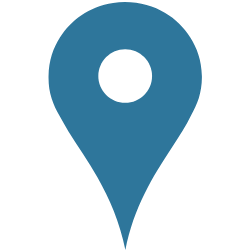
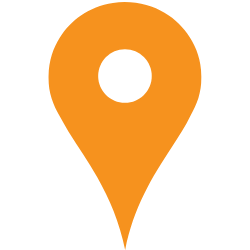
デモ用に改修

diff --git a/script/main.js b/script/main.js
@@ -4,16 +4,17 @@ soundEffects[0] = new Audio('audio/rain01.mp3');
 soundEffects[1] = new Audio('audio/rain02.mp3');
 soundEffects[2] = new Audio('audio/rain03.mp3');
 soundEffects[3] = new Audio('audio/rain04.mp3');
-let cnt = 0;
+let soundcnt = 0;
+let currentPrecipitation = 0; //降水量
 
 //雨の音をならす
 function play() {
     if (music == null || music.paused) {
-        cnt++;
-        music = soundEffects[cnt%4];
+        music = soundEffects[soundcnt%4];
         music.play();
         playButton.classList.remove('fa-play');
         playButton.classList.add('fa-pause');
+        soundcnt++;
     } else {
         music.pause();
         playButton.classList.remove('fa-pause');
@@ -22,30 +23,52 @@ function play() {
 }
 
 //気象情報を取得
-function rain(){
-    // OpenWeatherMap APIキー
-    const apiKey = 'APIKEY';
+function rain(lat,lon){
+    if (!config || config.apikey == "") {
+        console.log("apikeyが設定されていません");
+        return;
+    }
+    //APIキー
+    const apiKey = config.apikey;
     // 位置情報（緯度と経度）
-    const latitude = 35.6895; // 例: 東京の緯度
-    const longitude = 139.6917; // 例: 東京の経度
-
-    // API呼び出し
-    const apiUrl = `https://api.openweathermap.org/data/3.0/onecall?lat=${latitude}&lon=${longitude}&appid=${apiKey}`;
-    fetch(apiUrl)
-    .then(response => response.json())
-    .then(data => {
-        console.log(data);
-        if (data.weather && data.weather[0] && data.weather[0].main === 'Rain') {
-        console.log('降水があります');
-        } else {
-        console.log('降水はありません');
-        }
-    })
-    .catch(error => {
-        console.error('API呼び出しエラー:', error);
-    });
+    const latitude = lat; 
+    const longitude = lon; 
+    loadstart();
+    //CROS対応のためscriptタグを生成して、コールバック関数で値を取得する
+    const apiUrl = `https://api.yumake.jp/1.2/forecastMsm.php?lat=${latitude}&lon=${longitude}&key=${apiKey}&format=JSONP&callback=myCallbackFunction`;
+    var script = document.createElement("script");
+    script.src = apiUrl;
+    document.head.appendChild(script);
 }
 
+//callback関数にて予報データを取得する
+function myCallbackFunction(data) {
+    //dataチェック
+    if (!data || data == null || data.status != "success") {
+        console.log("気象データが取得できませんでした");
+        console.log(data);
+        return;
+    }
+    //取得した予報時間と現在時刻をチェックして、現在時刻に近い予報を取得する
+    let forecasts = data.forecast;
+    // 現在の時刻を取得
+    let currentDate = new Date();
+    for (let i in forecasts) {
+        let forecast = forecasts[i];
+        //console.log(forecast);
+        // 指定した日時を作成
+        var targetDate = new Date(forecast.forecastDateTime);
+        if (currentDate <= targetDate) {//現在時刻以降の最初の天気予報を取得
+            //console.log(currentDate+":"+targetDate);
+            //降水量をセットする
+            currentPrecipitation = (forecast.precipitation == 999.99) ? 0 : forecast.precipitation;
+            console.log(targetDate+"の降水量（予報）は"+currentPrecipitation+"ミリです");
+            break;//ループ終了
+        }
+    }
+    loadend();
+}
+  
 
 //地図画面へ
 function toMap() {
@@ -57,8 +80,11 @@ function toMain() {
     window.location.href = "index.html";
 }
 
+
+
+
 // YouTube動画のID（URLの最後の部分）を指定
-var youtubeVideoId = 'pmTFyDvr4l4';
+var youtubeVideoId = '';
 
 //Youtubeのモーダルウィンドウを上げる
 function fadeinModal(youtubeid) {
@@ -79,11 +105,16 @@ function fadeoutModal () {
   
 
 //地図データの取得用
-
-let currentlatitude = 35.6895; // 例: 東京の緯度
+//現在地の設定
+let currentlatitude = 35.6337; // 例: 東京の緯度
 let currentlongitude = 139.6917; // 例: 東京の経度
+function setCurrentLatLon(lat,lon) {
+    // currentlatitude = lat;
+    // currentlongitude = lon;
+}
+
 var map = null;
-var cameraMarker = [];
+var cameraMarker = [];//カメラのマーカーをセットする
 var pin ;
 var pin_video;
 var pin_video_off;
@@ -127,15 +158,25 @@ function putCameraData(data) {
     cameraMarker = [];
     var cnt = 0;
     for (var item of data) {
-        if (item.youtubeid && item.youtubeid != "") {
-            cameraMarker[cnt] = L.marker([item.lat, item.lon], { icon: pin_video }).addTo(map);
-            cameraMarker[cnt].on('click',function(e) {  clickPinVideo(e); });
-            cameraMarker[cnt].item = item;//ピンの情報をセットする
-        } else {
-            cameraMarker[cnt] = L.marker([item.lat, item.lon], { icon: pin_video_off }).addTo(map);
-        }
+        cameraMarker[cnt] = addMaker(item);
         cnt++;
     }
+}
+
+//マーカーの追加
+function addMaker(item) {
+    let marker = null;
+    if (item.youtubeid && item.youtubeid != "") {
+        let pin_icon = pin_video;
+        //一番近いカメラのみアイコンを変える
+        if (youtubeVideoId != null && youtubeVideoId == item.youtubeid) pin_icon = pin_video_on; 
+        marker = L.marker([item.lat, item.lon], { icon: pin_icon }).addTo(map);
+        marker.on('click',function(e) {  clickPinVideo(e); });
+        marker.item = item;//ピンの情報をセットする
+    } else {
+        marker = L.marker([item.lat, item.lon], { icon: pin_video_off }).addTo(map);
+    }
+    return marker;
 }
 
 //ピンをクリックイベントで発火する関数
@@ -155,13 +196,12 @@ function setCurrentLocation(){
             // 成功時のコールバック関数
 
             // 緯度と経度を取得
-            //currentlatitude = position.coords.latitude;
-            //currentlongitude = position.coords.longitude;
+            setCurrentLatLon(position.coords.latitude,position.coords.longitude);
 
             //現在地にピンを差して移動する
             console.log("緯度: " + currentlatitude + ", 経度: " + currentlongitude);
             var marker = L.marker([currentlatitude, currentlongitude], { icon: pin }).addTo(map);
-            map.panTo([latitude, longitude]);
+            map.panTo([currentlatitude, currentlongitude]);
 
         // ここで取得した位置情報を利用できます
         }, function (error) {
@@ -189,6 +229,7 @@ function setCurrentLocation(){
 //カメラデータの読み込み
 var cameraData = null;
 if (cameraData == null) {
+    loadstart();
     fetch('data/camera.json')
     .then(response => {
         if (!response.ok) {
@@ -208,13 +249,12 @@ if (cameraData == null) {
 }
 
 
-
 // 現在地からもっとも近いカメラを取得
 function nearbyCamera() {
+    console.log("nearbyCamera is start");
     navigator.geolocation.getCurrentPosition(function (position) {
         // 現在の緯度経度を設定
-        //currentlatitude = position.coords.latitude;
-        //currentlongitude = position.coords.longitude;
+        setCurrentLatLon(position.coords.latitude,position.coords.longitude);
 
         // 最も近い目的地とその距離を初期化
         var nearestCamera = null;
@@ -231,12 +271,18 @@ function nearbyCamera() {
     
         // 最も近い目的地の情報を表示
         if (nearestCamera) {
-            console.log('最も近い目的地:', nearestCamera.title);
-            console.log('距離:', nearestDistance.toFixed(2), 'メートル');
+            console.log('最も近いライブ映像:', nearestCamera.title);
+            console.log('距離:', nearestDistance.toFixed(2), 'km');
             youtubeVideoId = nearestCamera.youtubeid;
+            changeNearCameraPin();//カメラのアイコンを変更
         } else {
-            console.log('近くの目的地はありません。');
+            console.log('近くのライブ映像はありません。');
         }
+        loadend();
+
+        //降水量の取得
+        if (map == null) rain(currentlatitude,currentlongitude);//ここのコーディングは検討必要
+
     });    
 }
 
@@ -257,6 +303,27 @@ function calculateDistance(lat1, lon1, lat2, lon2) {
 
 //一番近いカメラ
 function changeNearCameraPin() {
+    if (!cameraMarker || cameraMarker.length == 0) return;//カメラのマーカーがセットされていなければ終了
+    cameraMarker.forEach(function (marker) {
+        //console.log(marker);
+        if (marker.item && marker.item.youtubeid == youtubeVideoId) {
+            let item = marker.item;
+            console.log(item);
+            marker.remove();//削除して追加する
+            marker = addMaker(item);
+            return;
+        }
+    });
 
+}
+
+function loadstart() {
+    console.log("loadstart");
+    document.getElementById("spinner").style.display = "block";
+}
+
+function loadend() {
+    console.log("loadend");
+    document.getElementById("spinner").style.display = "none";
 }
 

diff --git a/index.html b/index.html
@@ -4,7 +4,9 @@
   <meta charset="UTF-8">
   <meta name="viewport" content="width=device-width, initial-scale=1">
   <title>amaoto</title>
-  <link rel="stylesheet" href="https://cdnjs.cloudflare.com/ajax/libs/font-awesome/5.15.3/css/all.min.css">
+  <link rel="icon" href="img/favicon16.png" type="image/png" sizes="16x16">
+  <link rel="icon" href="img/favicon32.png" type="image/png" sizes="32x32">
+    <link rel="stylesheet" href="https://cdnjs.cloudflare.com/ajax/libs/font-awesome/5.15.3/css/all.min.css">
   <!-- HTMLファイル内の<head>セクション -->
   <link rel="stylesheet" href="css/styles.css">
   <style>
@@ -53,12 +55,12 @@
       </div>
   </div>
 </div>
+<div id="spinner" class="spinner"></div>
 
 <script src="https://code.jquery.com/jquery-3.5.1.min.js"></script>
+<script src="config.js"></script>
 <script src="script/main.js"></script>
 <script>
-console.log("処理開始")
-
 
 $("#openModalButton").on("click", function () {
   fadeinModal(youtubeVideoId);

diff --git a/map.html b/map.html
@@ -3,7 +3,9 @@
 <head>
     <meta charset="UTF-8">
     <meta name="viewport" content="width=device-width, initial-scale=1.0">
-    <title>amaoto</title>
+    <title>amaoto map</title>
+    <link rel="icon" href="img/favicon16.png" type="image/png" sizes="16x16">
+    <link rel="icon" href="img/favicon32.png" type="image/png" sizes="32x32">  
     <link rel="stylesheet" href="https://cdnjs.cloudflare.com/ajax/libs/font-awesome/5.15.3/css/all.min.css">
     <link rel="stylesheet" href="https://unpkg.com/leaflet@1.7.1/dist/leaflet.css" />
     <!-- HTMLファイル内の<head>セクション -->
@@ -31,6 +33,8 @@
     </div>
     <!-- 地図 -->
     <div id="map"></div>
+
+    <div id="spinner" class="spinner"></div>
   
     <script src="https://code.jquery.com/jquery-3.5.1.min.js"></script>
     <script src="https://unpkg.com/leaflet@1.7.1/dist/leaflet.js"></script>

diff --git a/css/styles.css b/css/styles.css
@@ -114,3 +114,24 @@ body, html {
     height: 360px;
     width: 360px;
   }
+
+  .spinner {
+    border: 4px solid rgba(255, 255, 255, 0.3);
+    border-radius: 50%;
+    border-top: 4px solid #2E769B;
+    width: 40px;
+    height: 40px;
+    animation: spin 1s linear infinite;
+    position: absolute;
+    top: 50%;
+    left: 50%;
+    margin-top: -20px;
+    margin-left: -20px;
+    z-index: 1000;
+  }
+  
+  @keyframes spin {
+    0% { transform: rotate(0deg); }
+    100% { transform: rotate(360deg); }
+  }
+  
